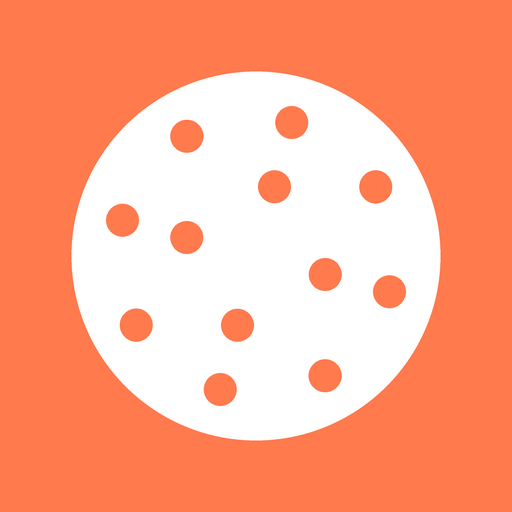
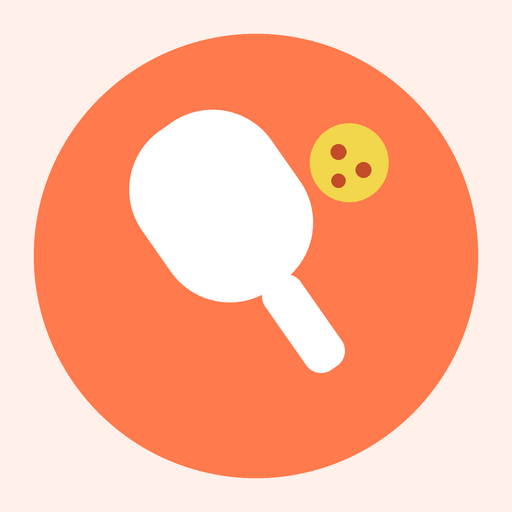
パドル登録、番号を変えない振り直し、正式ロゴ（エンブレム）
- マイパドル（ラケット）の有無を登録・編集、管理画面に表示
- 振り直しで番号を維持し、終了したゲームは残して残りだけ組み直す
- ロゴC（エンブレム・下部に「ふわっと」）とアイコンを差し替え

diff --git a/js/admin.js b/js/admin.js
@@ -34,6 +34,7 @@ async function loadMembers() {
       <td>${escapeHtml(m.email)}</td>
       <td><span class="tag tag-${m.level}">${m.level}</span></td>
       <td>${m.experience_years}年</td>
+      <td>${m.has_paddle == null ? '<span class="muted">未回答</span>' : m.has_paddle ? "あり" : "なし"}</td>
       <td>${m.role === "admin" ? '<span class="tag tag-admin">管理者</span>' : "メンバー"}</td>
       <td>${m.is_active ? "有効" : '<span style="color:var(--danger)">無効</span>'}</td>`;
     const td = document.createElement("td");
@@ -202,8 +203,11 @@ async function openAssign(ev) {
     return { user_id: id, name: m ? m.name : "（不明）" };
   });
 
+  const noPaddle = ids.filter((id) => members.find((x) => x.id === id)?.has_paddle === false)
+    .map((id) => members.find((x) => x.id === id).name);
   $("as-participants").textContent = assignParticipants.length
-    ? `参加者 ${assignParticipants.length}名: ` + assignParticipants.map((p) => p.name).join("、")
+    ? `参加者 ${assignParticipants.length}名: ` + assignParticipants.map((p) => p.name).join("、") +
+      ` ／ パドルなし（貸出）: ${noPaddle.length}名` + (noPaddle.length ? `（${noPaddle.join("、")}）` : "")
     : "まだ参加者がいません";
 
   await showExistingAssignment();
@@ -254,7 +258,8 @@ async function resetDoneRounds() {
 }
 
 // ペア・対戦の重複をできるだけ避けるランダム振り分け
-function buildAssignment(participants, courts, rounds) {
+// prev: 既存のコート割り / keepRounds: 終了済みでそのまま残すゲーム番号
+function buildAssignment(participants, courts, rounds, prev = [], keepRounds = new Set()) {
   const shuffle = (arr) => {
     const a = [...arr];
     for (let i = a.length - 1; i > 0; i--) {
@@ -269,11 +274,36 @@ function buildAssignment(participants, courts, rounds) {
   const restCount = {};
   participants.forEach((p) => (restCount[p.user_id] = 0));
 
-  // その日の番号を割り振り（ランダム）
-  const numbered = shuffle(participants).map((p, i) => ({ ...p, member_number: i + 1 }));
+  // 1試合分の組み合わせを、ペア・対戦・休憩の回数に記録する
+  const tally = (pA, pB) => {
+    partnerCount[key(pA[0].user_id, pA[1].user_id)] = (partnerCount[key(pA[0].user_id, pA[1].user_id)] ?? 0) + 1;
+    partnerCount[key(pB[0].user_id, pB[1].user_id)] = (partnerCount[key(pB[0].user_id, pB[1].user_id)] ?? 0) + 1;
+    pA.forEach((x) => pB.forEach((y) => {
+      oppCount[key(x.user_id, y.user_id)] = (oppCount[key(x.user_id, y.user_id)] ?? 0) + 1;
+    }));
+  };
 
-  const result = [];
+  // その日の番号: 既に番号がある人はそのまま、新しく来た人は続きの番号（ランダム順）
+  const prevNum = new Map(prev.map((r) => [r.user_id, r.member_number]));
+  let next = Math.max(0, ...prevNum.values());
+  const numbered = [
+    ...participants.filter((p) => prevNum.has(p.user_id)).map((p) => ({ ...p, member_number: prevNum.get(p.user_id) })),
+    ...shuffle(participants.filter((p) => !prevNum.has(p.user_id))).map((p) => ({ ...p, member_number: ++next })),
+  ];
+
+  // 終了済みのゲームはそのまま残し、回数の記録にも入れる
+  const result = prev.filter((r) => keepRounds.has(r.round)).map((r) => ({ ...r }));
+  [...keepRounds].forEach((round) => {
+    const inRound = result.filter((r) => r.round === round);
+    [...new Set(inRound.filter((r) => r.court > 0).map((r) => r.court))].forEach((court) => {
+      const c = inRound.filter((r) => r.court === court);
+      tally(c.filter((r) => r.slot <= 2), c.filter((r) => r.slot >= 3));
+    });
+    inRound.filter((r) => r.court === 0).forEach((r) => (restCount[r.user_id] = (restCount[r.user_id] ?? 0) + 1));
+  });
+
   for (let round = 1; round <= rounds; round++) {
+    if (keepRounds.has(round)) continue;
     const playingCount = Math.min(courts * 4, Math.floor(numbered.length / 4) * 4);
     // 休憩が少ない人から順に休憩に回す（全員の休憩回数を均等に）
     const byRest = shuffle(numbered).sort((a, b) => restCount[a.user_id] - restCount[b.user_id]);
@@ -314,11 +344,7 @@ function buildAssignment(participants, courts, rounds) {
       const court = i + 1;
       pA.forEach((p, s) => result.push({ round, court, slot: s + 1, ...p }));
       pB.forEach((p, s) => result.push({ round, court, slot: s + 3, ...p }));
-      partnerCount[key(pA[0].user_id, pA[1].user_id)] = (partnerCount[key(pA[0].user_id, pA[1].user_id)] ?? 0) + 1;
-      partnerCount[key(pB[0].user_id, pB[1].user_id)] = (partnerCount[key(pB[0].user_id, pB[1].user_id)] ?? 0) + 1;
-      pA.forEach((x) => pB.forEach((y) => {
-        oppCount[key(x.user_id, y.user_id)] = (oppCount[key(x.user_id, y.user_id)] ?? 0) + 1;
-      }));
+      tally(pA, pB);
     });
 
     resting.forEach((p, i) => {
@@ -326,7 +352,7 @@ function buildAssignment(participants, courts, rounds) {
       result.push({ round, court: 0, slot: i + 1, ...p });
     });
   }
-  return result;
+  return result.sort((a, b) => a.round - b.round || a.court - b.court || a.slot - b.slot);
 }
 
 $("btn-run-assign").onclick = async () => {
@@ -339,7 +365,12 @@ $("btn-run-assign").onclick = async () => {
   }
   const courts = Number($("as-courts").value);
   const rounds = Number($("as-rounds").value);
-  const rows = buildAssignment(assignParticipants, courts, rounds);
+  const { data: prev } = await supa
+    .from("court_assignments")
+    .select("round, court, slot, user_id, member_number")
+    .eq("event_id", assignEvent.id);
+  const keep = new Set(assignEvent.done_rounds ?? []);
+  const rows = buildAssignment(assignParticipants, courts, rounds, prev ?? [], keep);
 
   // 既存の割りを消してから保存
   await supa.from("court_assignments").delete().eq("event_id", assignEvent.id);
@@ -358,8 +389,9 @@ $("btn-run-assign").onclick = async () => {
     msgEl.className = "form-msg err";
     return;
   }
-  await resetDoneRounds();
-  msgEl.textContent = "振り分けを保存しました。メンバーの画面にも反映されています。";
+  msgEl.textContent = prev?.length
+    ? "番号はそのままで振り分け直しました（終了したゲームは変えていません）。メンバーの画面にも反映されています。"
+    : "振り分けを保存しました。メンバーの画面にも反映されています。";
   msgEl.className = "form-msg ok";
   $("btn-clear-assign").classList.remove("hidden");
   renderAssignment(rows);

diff --git a/js/app.js b/js/app.js
@@ -9,9 +9,12 @@ $("btn-logout").onclick = logout;
 $("who").textContent = profile.name;
 if (profile.role === "admin") $("btn-admin").classList.remove("hidden");
 
+const paddleLabel = (v) => (v == null ? "未回答" : v ? "持っている" : "持っていない");
+
 function renderProfile(p) {
   $("pf-name").textContent = p.name;
   $("pf-email").textContent = p.email;
+  $("pf-paddle").textContent = "マイパドル（ラケット）: " + paddleLabel(p.has_paddle);
   const lv = $("pf-level");
   lv.textContent = p.level;
   lv.className = "tag tag-" + p.level;
@@ -22,6 +25,7 @@ renderProfile(profile);
 $("btn-edit-profile").onclick = () => {
   $("ed-name").value = profile.name;
   $("ed-years").value = String(profile.experience_years);
+  $("ed-paddle").value = profile.has_paddle == null ? "" : String(profile.has_paddle);
   $("form-profile").classList.remove("hidden");
 };
 $("btn-cancel-profile").onclick = () => $("form-profile").classList.add("hidden");
@@ -30,7 +34,11 @@ $("form-profile").onsubmit = async (e) => {
   e.preventDefault();
   const { data, error } = await supa
     .from("profiles")
-    .update({ name: $("ed-name").value.trim(), experience_years: Number($("ed-years").value) })
+    .update({
+      name: $("ed-name").value.trim(),
+      experience_years: Number($("ed-years").value),
+      has_paddle: $("ed-paddle").value === "" ? null : $("ed-paddle").value === "true",
+    })
     .eq("id", profile.id)
     .select()
     .single();

diff --git a/index.html b/index.html
@@ -11,7 +11,7 @@
 <body>
 
 <div class="auth-wrap">
-  <h1 class="auth-logo-text">ピックルボール</h1>
+  <img class="auth-logo" src="assets/logo.svg" alt="ピックルボールサークル「ふわっと」">
 
   <div class="card">
     <div class="tabs">
@@ -60,6 +60,14 @@
           <option value="8">7年以上</option>
         </select>
         <p class="muted">経験年数に応じてレベルタグ（未経験者/初心者/中級/中上級）が自動で付きます</p>
+      </div>
+      <div class="field">
+        <label for="su-paddle">マイパドル（ラケット）</label>
+        <select id="su-paddle" required>
+          <option value="" selected disabled>選択してください</option>
+          <option value="true">持っている</option>
+          <option value="false">持っていない（貸出希望）</option>
+        </select>
       </div>
       <p class="form-msg" id="signup-msg"></p>
       <button class="btn btn-primary" style="width:100%" type="submit">登録する</button>
@@ -131,6 +139,7 @@ forms.signup.onsubmit = async (e) => {
       data: {
         name: $("su-name").value.trim(),
         experience_years: Number($("su-years").value),
+        has_paddle: $("su-paddle").value === "true",
       },
     },
   });

diff --git a/app.html b/app.html
@@ -29,6 +29,7 @@
       <div class="grow">
         <div><strong id="pf-name"></strong> <span id="pf-level" class="tag"></span> <span id="pf-role" class="tag tag-admin hidden">管理者</span></div>
         <div class="muted" id="pf-email"></div>
+        <div class="muted" id="pf-paddle"></div>
       </div>
       <button class="btn btn-outline btn-sm" id="btn-edit-profile" type="button">編集</button>
     </div>
@@ -47,6 +48,14 @@
           <option value="3">3年くらい</option>
           <option value="5">4〜6年</option>
           <option value="8">7年以上</option>
+        </select>
+      </div>
+      <div class="field">
+        <label for="ed-paddle">マイパドル（ラケット）</label>
+        <select id="ed-paddle">
+          <option value="">未回答</option>
+          <option value="true">持っている</option>
+          <option value="false">持っていない（貸出希望）</option>
         </select>
       </div>
       <p class="form-msg" id="profile-msg"></p>

diff --git a/admin.html b/admin.html
@@ -26,7 +26,7 @@
     <div class="table-scroll">
       <table class="list" id="member-table">
         <thead>
-          <tr><th>名前</th><th>メール</th><th>レベル</th><th>経験年数</th><th>権限</th><th>状態</th><th>操作</th></tr>
+          <tr><th>名前</th><th>メール</th><th>レベル</th><th>経験年数</th><th>パドル</th><th>権限</th><th>状態</th><th>操作</th></tr>
         </thead>
         <tbody></tbody>
       </table>

diff --git a/confirmed.html b/confirmed.html
@@ -10,7 +10,7 @@
 <body>
 
 <div class="auth-wrap">
-  <h1 class="auth-logo-text">ピックルボール</h1>
+  <img class="auth-logo" src="assets/logo.svg" alt="ピックルボールサークル「ふわっと」">
   <div class="card center">
     <p style="font-size:3rem;margin:0">✅</p>
     <h2>メール認証が完了しました</h2>

diff --git a/reset.html b/reset.html
@@ -10,7 +10,7 @@
 <body>
 
 <div class="auth-wrap">
-  <h1 class="auth-logo-text">ピックルボール</h1>
+  <img class="auth-logo" src="assets/logo.svg" alt="ピックルボールサークル「ふわっと」">
 
   <div class="card">
     <h2>新しいパスワードの設定</h2>
